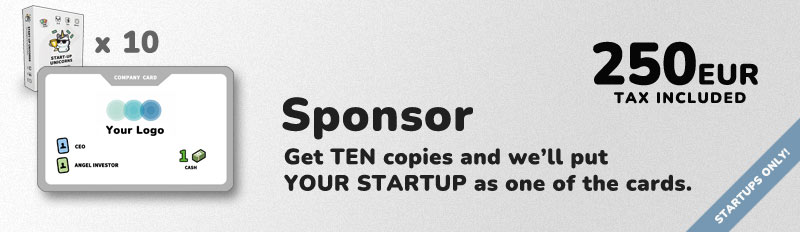
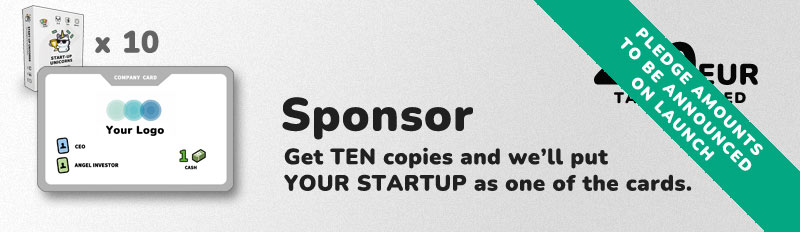
Latest

Changed region(s): [[0.6562, 0.0, 1.0, 1.0]]

diff --git a/index.html b/index.html
@@ -118,12 +118,12 @@
         <script type='text/javascript'>(function($) {window.fnames = new Array(); window.ftypes = new Array();fnames[0]='EMAIL';ftypes[0]='email';fnames[1]='FNAME';ftypes[1]='text';fnames[2]='LNAME';ftypes[2]='text';fnames[3]='ADDRESS';ftypes[3]='address';fnames[4]='PHONE';ftypes[4]='phone';fnames[5]='BIRTHDAY';ftypes[5]='birthday';}(jQuery));var $mcj = jQuery.noConflict(true);</script>
       </section>
 
-      <!--section id="rewards" class="wrapper style2 special">
+      <section id="rewards" class="wrapper style2 special">
         <h2 style="font-size: 180%">Reward Tiers</h4>
         <p><img class="large" src="images/reward.tiers.wide.basicset.jpg" /></p>
         <p><img class="large" src="images/reward.tiers.wide.sponsorset.jpg" /></p>
-        <p style="font-size: 80%">PLEASE NOTE. We're still getting quotes for shipping/manufacturing, prices are not final, but close.</p>
-      </section-->
+        <p style="font-size: 80%">PLEASE NOTE. We're still getting quotes for shipping/manufacturing so the rewards amounts are not final.</p>
+      </section>
 
 
 		<!-- Two -->
@@ -222,6 +222,7 @@
 					<li><a href="https://www.reddit.com/r/startupunicorns/" class="button brands icon solid fa-reddit">Reddit</a></li>
 					<li><a href="https://www.facebook.com/startupunicornsgame/" class="button brands icon solid fa-facebook">Facebook</a></li>
 					<li><a href="https://twitter.com/startupunicornz" class="button brands icon solid fa-twitter">Twitter</a></li>
+          <li><a href="https://boardgamegeek.com/boardgame/399131/startup-unicorns" class="button brands icon solid fa-solid fa-chess-queen">BGG</a></li>
 				</ul>
 			</section>
 

diff --git a/assets/css/main.css b/assets/css/main.css
@@ -2294,6 +2294,11 @@ input, select, textarea {
       color: #29be7e;
 		}
 
+    .icon.brands.fa-chess-queen:before {
+      font-family: 'Font Awesome 5 Free';
+      color: #ff5100;
+    }
+
 	.icon {
 		color: #808080;
 	}
@@ -4196,3 +4201,7 @@ form .email-arrow img {
 }
 
 #header .madewithlove { font-size: 100%; margin-bottom: 3em; margin-top: 0.5em }
+
+#socialmedia .icon.brands {
+  background-color: #fff;
+}
